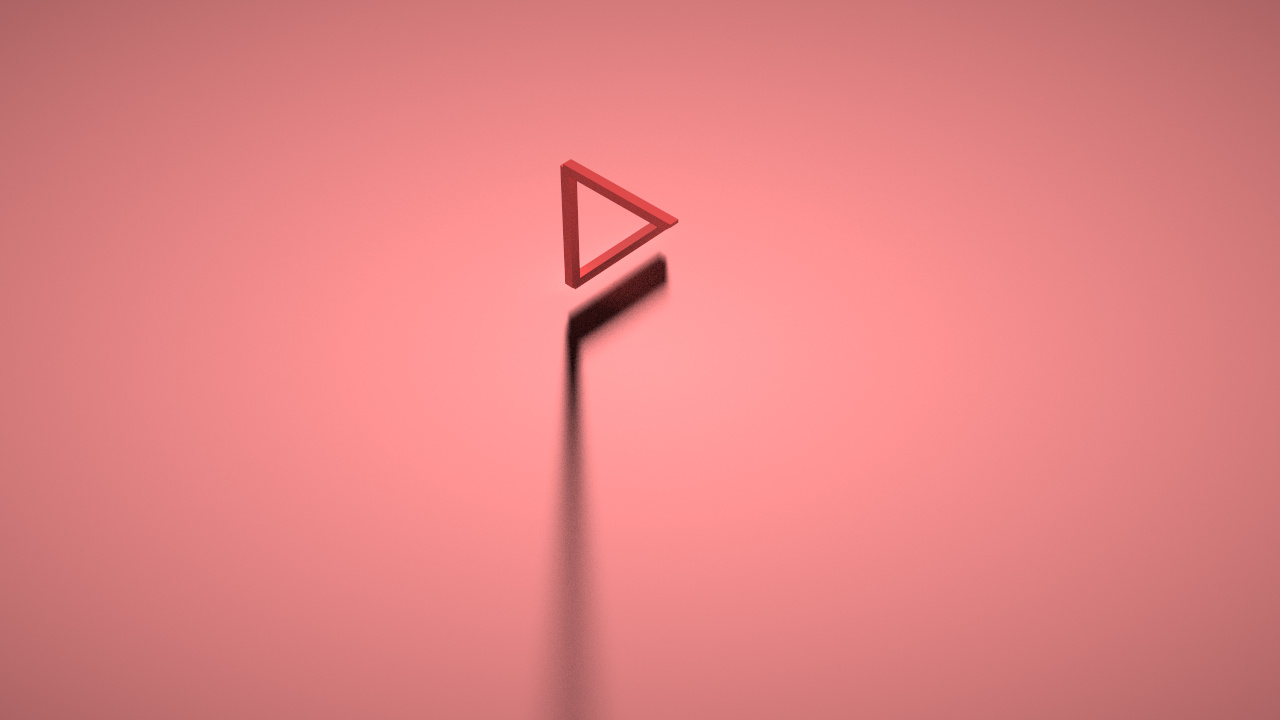
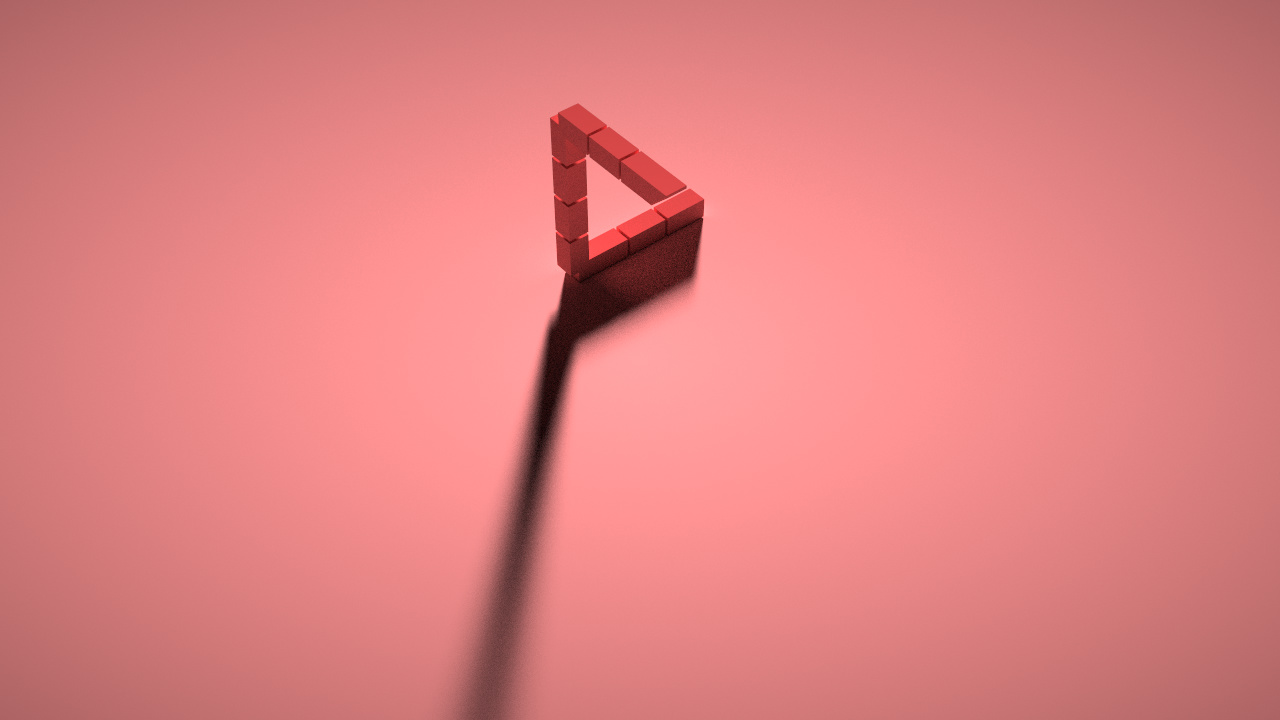
Update

Changed region(s): [[0.3438, 0.1528, 0.5625, 1.0]]

diff --git a/main.py b/main.py
@@ -2,30 +2,38 @@ from scene import Scene
 import taichi as ti
 from taichi.math import *
 
-color = (0.2, 0.2, 0.6)
+color = (0.6, 0.2, 0.2)
 
 scene = Scene(voxel_edges=0, exposure=10)
 scene.set_floor(-0.05, (1.0, 1.0, 1.0))
 scene.set_directional_light((-1, 0.3, -1), 0.1, (color))
 
+@ti.func
+def makeup(end, num):
+    for m in range(1, end):
+        for j in range(-3, 4):
+            scene.set_voxel(vec3(41+m, num, j), 1, vec3(color))
+
 @ti.kernel
 def initialize_voxels():
-    for x in ti.ndrange((0, 36)):
-        for i in range(-1, 2):
-            for j in range(-1, 2):
-                scene.set_voxel(vec3(x, 39+i, j), 1, vec3(color))
-    for m in range(1, 3):
-        for j in range(-1, 2):
-            scene.set_voxel(vec3(35+m, 40, j), 1, vec3(color))
-    for j in range(-1, 2):
-        scene.set_voxel(vec3(36, 39, j), 1, vec3(color))
-    for y in ti.ndrange((0, 40)):
-        for i in range(-1, 2):
-            for j in range(-1, 2):
+    for x in ti.ndrange((0, 42)):
+        if x % 14 == 0:
+            continue
+        for i in range(-3, 4):
+            for j in range(-3, 4):
+                scene.set_voxel(vec3(x, 56+i, j), 1, vec3(color))
+    makeup(7, 59); makeup(6, 58); makeup(5, 57); makeup(4, 56); makeup(3, 55); makeup(2, 54)
+    for y in ti.ndrange((0, 56)):
+        if y % 14 == 0:
+            continue
+        for i in range(-3, 4):
+            for j in range(-3, 4):
                 scene.set_voxel(vec3(i, y, j), 1, vec3(color))
-    for z in ti.ndrange((-36, 1)):
-        for i in range(-1, 2):
-            for j in range(-1, 2):
+    for z in ti.ndrange((-49, 1)):
+        if z == -34 or z == -19:
+            continue
+        for i in range(-3, 4):
+            for j in range(-3, 4):
                 scene.set_voxel(vec3(i, j, z), 1, vec3(color))
 
 initialize_voxels()
